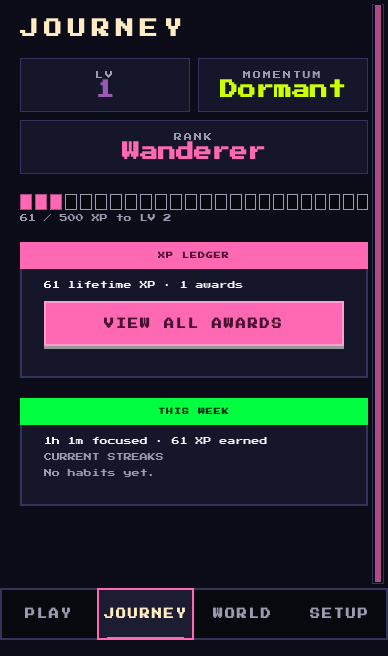
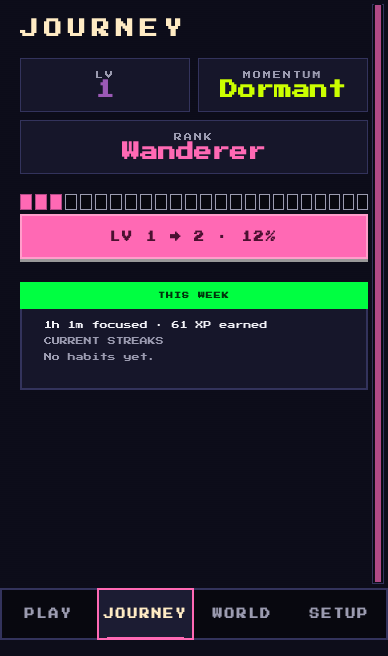
Fix ledger provenance and compact progression disclosure

diff --git a/arcade/screens/JourneyScreen.qml b/arcade/screens/JourneyScreen.qml
@@ -14,7 +14,7 @@ ArcadeScreen {
         running: root.visible
         onTriggered: root.nowUtc = new Date().toISOString()
     }
-    function focusLedgerControl() { ledgerButton.forceActiveFocus() }
+    function focusLedgerControl() { progressButton.forceActiveFocus() }
     readonly property var journey: JourneyModel.view(
         store ? store.progressionProjection : ProgressionModel.emptyProjection(),
         store ? store.sessionProjection.sessions : [],
@@ -59,42 +59,14 @@ ArcadeScreen {
             fraction: root.journey.progress.have / root.journey.progress.need
             blocks: Math.max(1, Math.min(24, Math.floor(width / 8)))
         }
-        Text {
+        BevelButton {
+            id: progressButton
             objectName: "journeyXpProgress"
             width: parent.width
-            text: root.journey.progress.have + " / " + root.journey.progress.need + " XP to LV " + (root.journey.level + 1)
-            color: Theme.textMuted
-            font.family: Theme.fontFamily
-            font.pixelSize: Theme.typeBody
-            wrapMode: Text.WordWrap
-        }
-    }
-    ArcadeCard {
-        width: parent.width
-        ribbon: "XP LEDGER"
-        ribbonColor: Theme.coinGold
-        ribbonText: Theme.goldDeep
-        Column {
-            width: parent.width
-            spacing: Theme.space(3)
-            Text {
-                objectName: "journeyLifetimeXp"
-                width: parent.width
-                text: root.journey.lifetimeXp + " lifetime XP · " + root.journey.ledger.length + " awards"
-                color: Theme.textPrimary
-                font.family: Theme.fontFamily
-                font.pixelSize: Theme.typeBody
-                wrapMode: Text.WordWrap
-            }
-            BevelButton {
-                id: ledgerButton
-                objectName: "openLedgerButton"
-                width: parent.width
-                label: "VIEW ALL AWARDS"
-                baseColor: Theme.coinGold
-                textColor: Theme.goldDeep
-                onActivated: if (root.shellApi) root.shellApi.openLedgerSheet()
-            }
+            label: "LV " + root.journey.level + " → " + (root.journey.level + 1)
+                   + " · " + Math.floor(100 * root.journey.progress.have / root.journey.progress.need) + "%"
+            Accessible.name: label + ". View XP breakdown and ledger"
+            onActivated: if (root.shellApi) root.shellApi.openLedgerSheet()
         }
     }
     ArcadeCard {

diff --git a/JourneyModel.js b/JourneyModel.js
@@ -6,12 +6,15 @@ function levelProgress(progression) {
 
 function ledgerEntries(progression, events) {
   var sources = Object.create(null);
+  var corrections = Object.create(null);
   events.forEach(function(event) {
-    sources[event.eventId] = event;
-    if (event.type === "progression.correction") sources[event.payload.id] = event;
+    if (!sources[event.eventId]) sources[event.eventId] = event;
+    if (event.type === "progression.correction" && !corrections[event.payload.id])
+      corrections[event.payload.id] = event;
   });
   return progression.ledger.map(function(award) {
-    var source = sources[award.sourceEventId];
+    var source = award.calculation && award.calculation.correction
+      ? corrections[award.sourceEventId] : sources[award.sourceEventId];
     return { id: award.id, amount: award.lifetimeXp, ruleVersion: award.ruleVersion,
       reason: award.reason, timestamp: source ? source.occurredAtUtc : null,
       dailyXpDate: award.dailyXpDate || (source ? source.dailyXpDate : null), sourceEventId: award.sourceEventId };

diff --git a/tests/journey_model.test.js b/tests/journey_model.test.js
@@ -45,3 +45,14 @@ test('empty progression has no fabricated awards and corrections resolve their j
   assert.equal(Journey.view(Progression.project(events), [], {}, events, '2026-10-10').weeklyXp, 10);
   assert.equal(Journey.ledgerEntries(Progression.project(events), events)[0].timestamp, events[0].occurredAtUtc);
 });
+
+test('correction IDs cannot overwrite session provenance and duplicate corrections retain first source', () => {
+  const session = award('session-id', 20, '2026-10-09');
+  const first = {eventId:'correction-event',type:'progression.correction',dailyXpDate:'2026-10-10',
+    occurredAtUtc:'2026-10-10T14:00:00Z',payload:{id:'session-id',lifetimeXp:10,reason:'Correction'}};
+  const duplicate = {...first,eventId:'later-event',occurredAtUtc:'2026-10-11T14:00:00Z'};
+  const events = [session,first,duplicate];
+  const ledger = Journey.ledgerEntries(Progression.project(events), events);
+  assert.equal(ledger[0].timestamp, session.occurredAtUtc);
+  assert.equal(ledger[1].timestamp, first.occurredAtUtc);
+});

diff --git a/.agents/skills/verify/scripts/host.qml b/.agents/skills/verify/scripts/host.qml
@@ -60,7 +60,7 @@ ShellRoot {
     function ui(): string {
       var result = {}
       var shellItem = input.findChild(productionWidget, "dailyxpShell")
-      var names = ["startSessionButton", "pauseSessionButton", "finishSessionButton", "sessionTimer", "sessionState", "sessionResult", "dailyxpShell", "journeyLevel", "journeyMomentum", "journeyRank", "journeyXpBar", "journeyXpProgress", "journeyLifetimeXp", "journeyWeeklyInsight", "openLedgerButton"]
+      var names = ["startSessionButton", "pauseSessionButton", "finishSessionButton", "sessionTimer", "sessionState", "sessionResult", "dailyxpShell", "journeyLevel", "journeyMomentum", "journeyRank", "journeyXpBar", "journeyXpProgress", "journeyLifetimeXp", "journeyWeeklyInsight", "openLedgerButton", "navigationLabelJourney", "navigationLabelWorld"]
       for (var i = 0; i < names.length; i++) {
         var item = host.findControl(names[i])
         var point = item && shellItem ? item.mapToItem(shellItem, 0, 0) : { x: 0, y: 0 }

diff --git a/arcade/screens/LedgerSheet.qml b/arcade/screens/LedgerSheet.qml
@@ -16,6 +16,16 @@ ArcadeSheet {
         width: parent.width
         spacing: Theme.space(4)
         Text {
+            objectName: "journeyLifetimeXp"
+            width: parent.width
+            text: (sheet.store ? sheet.store.progressionProjection.totals.lifetimeXp : 0) + " lifetime XP · "
+                  + (sheet.store ? sheet.store.progressionProjection.totals.seasonXp : 0) + " season XP"
+            color: Theme.textPrimary
+            font.family: Theme.fontFamily
+            font.pixelSize: Theme.typeBody
+            wrapMode: Text.WordWrap
+        }
+        Text {
             visible: sheet.awards.length === 0
             width: parent.width
             text: "No awards yet. Finish a focus session to begin your ledger."

diff --git a/ShellContent.qml b/ShellContent.qml
@@ -323,7 +323,11 @@ Rectangle {
                                ? Theme.surface : "transparent"
 
                         Text {
+                            objectName: "navigationLabel" + tabButton.modelData.name
                             anchors.centerIn: parent
+                            width: parent.width - Theme.space(2)
+                            horizontalAlignment: Text.AlignHCenter
+                            elide: Text.ElideRight
                             text: tabButton.modelData.label
                             color: root.currentSurface === tabButton.modelData.name
                                    ? "#ffebc4" : Theme.textMuted

diff --git a/.agents/skills/verify/scripts/journey_flow.py b/.agents/skills/verify/scripts/journey_flow.py
@@ -27,8 +27,8 @@ def run_flow(run):
         time.sleep(.3)
         navigate(run, 'Journey')
         assert ui(run)['journeyLevel']['text'] == 'LV'
-        assert '0 lifetime XP' in ui(run)['journeyLifetimeXp']['text']
-        activate(run, 'openLedgerButton', 'Return')
+        assert ui(run)['journeyXpProgress']['text'] == 'LV 1 → 2 · 0%'
+        activate(run, 'journeyXpProgress', 'Return')
         assert status(run)['ledgerOpen'] and status(run)['entries'] == []
         capture(run, 'empty-ledger')
         control.ipc(run, 'press', 'Escape')
@@ -40,11 +40,11 @@ def run_flow(run):
         earned = status(run)
         assert earned['projection']['totals']['lifetimeXp'] == 61
         navigate(run, 'Journey')
-        assert '61 lifetime XP' in ui(run)['journeyLifetimeXp']['text']
-        assert ui(run)['journeyXpProgress']['text'] == '61 / 500 XP to LV 2'
+        assert ui(run)['journeyXpProgress']['text'] == 'LV 1 → 2 · 12%'
+        assert ui(run)['journeyXpProgress']['text'] == 'LV 1 → 2 · 12%'
         assert '1h 1m focused' in ui(run)['journeyWeeklyInsight']['text']
         capture(run, 'earned-journey')
-        activate(run, 'openLedgerButton', 'Space')
+        activate(run, 'journeyXpProgress', 'Space')
         awards = status(run)['entries']
         assert len(awards) == 1 and awards[0]['award']['amount'] == 61
         event = next(e for e in earned['events'] if e['eventId'] == awards[0]['award']['sourceEventId'])
@@ -64,12 +64,12 @@ def run_flow(run):
         time.sleep(.3)
         navigate(run, 'Journey')
         assert status(run)['projection'] == earned['projection']
-        assert '61 lifetime XP' in ui(run)['journeyLifetimeXp']['text']
-        activate(run, 'openLedgerButton', 'Return')
+        assert ui(run)['journeyXpProgress']['text'] == 'LV 1 → 2 · 12%'
+        activate(run, 'journeyXpProgress', 'Return')
         assert status(run)['entries'][0]['award'] == awards[0]['award']
         capture(run, 'replayed-ledger')
         control.ipc(run, 'press', 'Escape')
-        assert ui(run)['openLedgerButton']['focus']
+        assert ui(run)['journeyXpProgress']['focus']
         for index in range(21):
             assert control.ipc(run, 'progressionCommand', json.dumps({
                 'type':'progression.correction','correction':{'id':f'verify-award-{index}',
@@ -77,7 +77,7 @@ def run_flow(run):
             settled(run)
         assert 'LV' == ui(run)['journeyLevel']['text']
         assert status(run)['projection']['level'] == 2
-        activate(run, 'openLedgerButton', 'Return')
+        activate(run, 'journeyXpProgress', 'Return')
         assert len(status(run)['entries']) == 22
         for _ in range(22):
             control.ipc(run, 'press', 'Tab')
@@ -96,8 +96,13 @@ def run_flow(run):
         capture(run, 'narrow-ledger')
         control.ipc(run, 'press', 'Escape')
         assert '691 XP earned' in ui(run)['journeyWeeklyInsight']['text']
+        labels = ui(run)
+        journey_label = labels['navigationLabelJourney']
+        world_label = labels['navigationLabelWorld']
+        assert journey_label['x'] + journey_label['width'] <= world_label['x']
+        assert world_label['x'] + world_label['width'] <= 280
         capture(run, 'narrow-journey')
-        assert ui(run)['openLedgerButton']['focus']
+        assert ui(run)['journeyXpProgress']['focus']
         report = {'passed':True,'emptyState':True,'sessionEarnedXp':61,'journalMetadataMatches':True,
                   'keyboardLedger':True,'restartDeterministic':True,'levelAdvance':True,
                   'manyAwardsReachable':True,'longReasonsAndNarrowPanel':True,'focusReturnsToTrigger':True}

diff --git a/docs/evidence/v4/README.md b/docs/evidence/v4/README.md
@@ -12,8 +12,12 @@ Further checks cover an empty ledger, Space/Return activation, Escape, focus res
 | Ledger had no keyboard entry point | Accessible trigger, focused rows, scroll-to-focus and return to trigger | Keyboard users can inspect every award |
 | Long entries could exceed available width | Wrapped text and constrained tiles fit a narrow panel | The full reason remains readable |
 
-168 Node tests and four Python verifier tests pass. The session rail crash/recovery regression passes. Plugin validation and scoped qmllint pass. Scoped lint disables inherited dynamic QObject and Quickshell metadata categories; default lint warnings remain. The private bus emits expected DBus warnings. No QML reference or type errors appeared in the final run.
+169 Node tests and four Python verifier tests pass. The session rail crash/recovery regression passes. Plugin validation and scoped qmllint pass. Scoped lint disables inherited dynamic QObject and Quickshell metadata categories; default lint warnings remain. The private bus emits expected DBus warnings. No QML reference or type errors appeared in the final run.
 
 Main-agent simplification, deslop and rendered Emil review kept the view calculations in JourneyModel and reused ArcadeSheet scrolling. The required design principles are applied to QML. No motion was added to keyboard actions. Optional audit/critique/polish dependencies of design-improve are unavailable locally; the rendered design pass used Emil directly. No broader animation audit was needed.
 
 Full Omarchy shell integration and a personal desktop refresh were not exercised for this feature. Mohamed asked to keep using the laptop, so the installed plugin remains on the prior reviewed revision until he requests a refresh.
+
+Independent review found and the main agent fixed two defects. Journal event IDs and correction IDs now have separate indexes, preserving the first source of duplicate corrections. A regression proves that correction IDs cannot change a session award timestamp. The compact XP line follows the owner’s requested `LV n → n+1 · NN%` format and opens the full lifetime/season breakdown and award ledger by mouse or keyboard. Totals appear only on demand. The updated private-display flow passed after these fixes.
+
+The final narrow-panel review also found controller labels overlapping. Navigation labels now have explicit bounds and elision, with full accessible names. The private flow asserts JOURNEY and WORLD text boxes do not overlap at 280 pixels.
